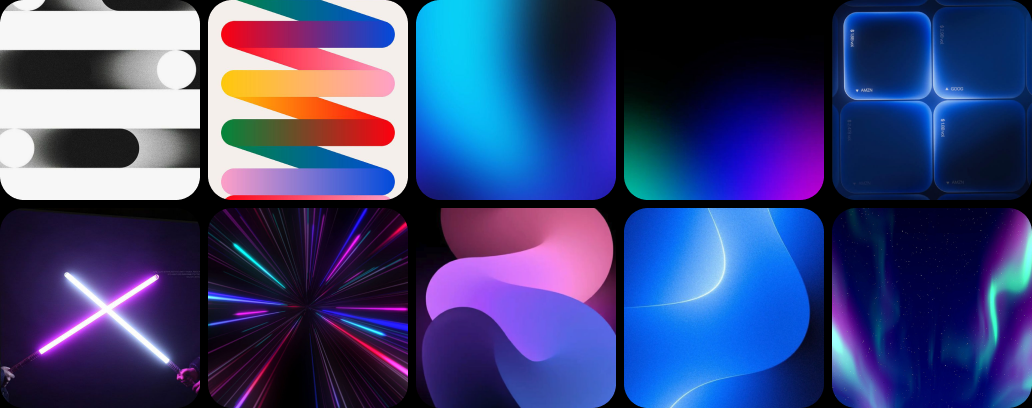
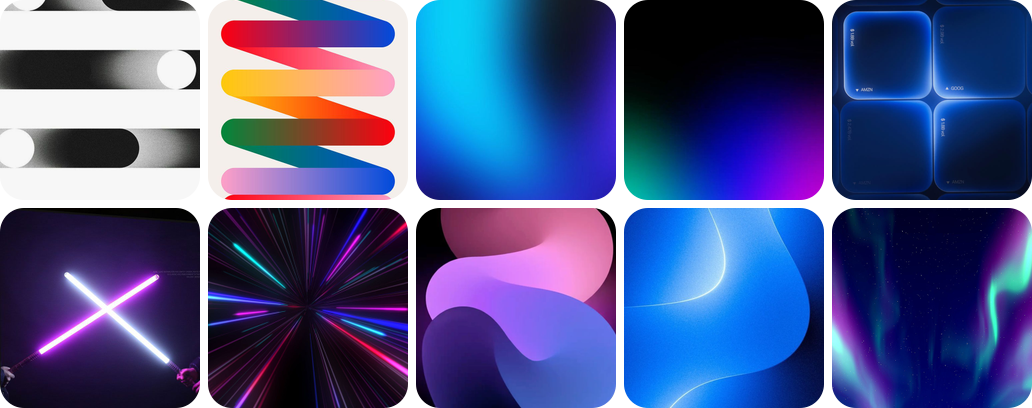
Refine mobile vision card image

diff --git a/index.html b/index.html
@@ -903,6 +903,17 @@
         display: inline;
       }
 
+      .visual-card__body--vision {
+        inset: 58px 0 auto;
+        justify-content: flex-start;
+        gap: 24px;
+      }
+
+      .visual-card__art--vision {
+        width: calc(var(--visual-card-width) + 88px);
+        max-width: none;
+      }
+
       .visual-card__body--intent {
         inset: auto 24px 28px 24px;
         gap: 12px;

diff --git a/ROOKIE2_SITE_GUIDE.md b/ROOKIE2_SITE_GUIDE.md
@@ -10,7 +10,7 @@
 - `assets/images/Intro_mv_poster.png`: Intro motion 영상 poster 이미지입니다.
 - `assets/images/NaverLabsMark.svg`: Hero 하단 NAVER LABS 로고입니다.
 - `assets/images/visual-principles/card-principles-graphic.svg`: Visual Principles 1번 카드의 벡터 그래픽 이미지입니다. 배경이 보이지 않도록 Figma의 `Subtract` 벡터를 SVG로 가져왔고, 카드 내부 텍스트는 HTML/CSS로 따로 얹습니다.
-- `assets/images/visual-principles/card-vision-grid.png`: Visual Principles 2번 카드의 이미지 그리드입니다. 카드 하나당 하나의 이미지 파일로 관리한다는 원칙에 맞춰 Figma 이미지 묶음을 한 장으로 저장했습니다.
+- `assets/images/visual-principles/card-vision-grid.png`: Visual Principles 2번 카드의 이미지 그리드입니다. 카드 하나당 하나의 이미지 파일로 관리한다는 원칙에 맞춰 Figma 이미지 타일 10개를 투명 배경의 한 장 PNG로 합성했습니다.
 - `assets/images/visual-principles/card-intent-visual.jpg`: Visual Principles 3번 카드 `Intent Made Visible`의 배경 비주얼 이미지입니다. 설명 텍스트는 HTML/CSS로 따로 얹습니다.
 - `assets/media/Intro_mv.mp4`: 스크롤에 따라 재생/역재생되는 Intro motion 영상입니다.
 - `assets/content/intro.json`: Intro 문구의 `en`, `ko` 보관용 콘텐츠입니다. 현재 화면은 HTML에 직접 박힌 영문을 사용하지만, 나중에 한글화할 때 이 파일을 기준으로 다시 적용합니다.
@@ -241,7 +241,8 @@ Intro motion overlay 카피 기준:
 - 1번 카드의 세 가지 라벨 `Lively Interaction`, `Connected Experience`, `Approachable Future`도 CSS 텍스트로 얹습니다. 모바일 `560px` 이하에서는 각각 `Lively`, `Connected`, `Future`로 축약하고 `12px` 정수 크기를 사용합니다.
 - 1번 카드의 동글한 컬러 그래픽은 PNG 캡처가 아니라 SVG 벡터를 사용합니다. 원본 `900 x 282` 비율을 유지해야 하며, `preserveAspectRatio="xMidYMid meet"`와 CSS `object-fit: contain` 기준을 사용합니다. 검은 사각 배경이 보이거나 모바일에서 찌그러져 보이면 SVG 비율 설정을 먼저 확인합니다.
 - 1번 카드 내부 라벨 텍스트는 모바일에서도 최소 `10px` 이상을 유지합니다.
-- 2번 카드의 이미지 그리드는 하나의 PNG로 저장했습니다.
+- 2번 카드의 이미지 그리드는 하나의 투명 PNG로 저장했습니다. 이미지 바깥 배경은 투명해야 하며, 검은 캔버스가 포함된 PNG로 교체하지 않습니다.
+- 2번 카드는 모바일 `560px` 이하에서만 이미지 그리드를 카드 폭보다 크게 배치합니다. 비율을 유지한 채 좌우로 걸치게 하고, 넘치는 영역은 `.visual-card`의 `overflow: hidden`으로 마스킹합니다.
 - 3번 카드는 Figma 최신 기준에 따라 제목 없이 설명 텍스트만 표시합니다.
 - 3번 카드 설명 텍스트는 모바일에서도 Intro 서브텍스트와 비슷한 가독성을 유지하도록 최소 `16px`을 기준으로 합니다.
 